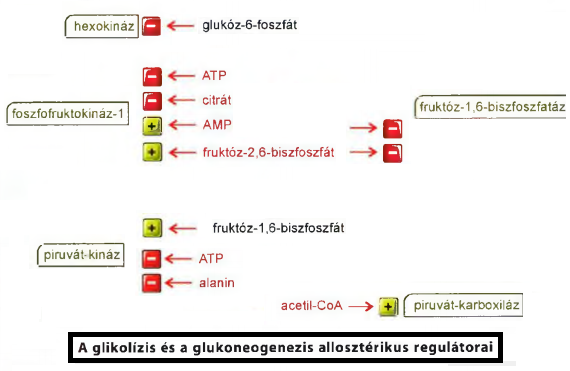
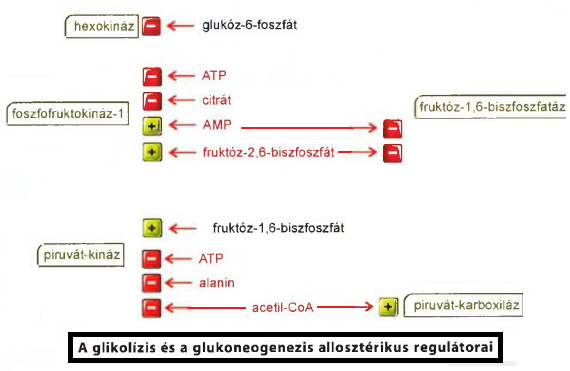
make some changes

diff --git a/BioKemia/II/biokemia_II.html b/BioKemia/II/biokemia_II.html
@@ -86,6 +86,7 @@
 	<li>citrát-kör szabályozása csak allosztérikus(= kötődik az enzimhez)? &#10140; tehát tömeghatás törvénye (koncentráció viszonyok) nem?</li><ul>
 		<li><font style="font-size:80%">szvsz</font> így fogjam fel: reverzibilis reakciók esetében számítanak a koncentráció-viszonyok, mert azok iránya<abbr title="nyilván irreverzibilisé, csak nem annyira, hogy jelentős lenne">,mértéke</abbr> befolyásolható ezáltal &#10140; azonban ez szvsz nem tekinthető szabályozásnak (de lehet hgy igen), inkább úgy fogjam fel mint következmény &#10140; ugyanis ha megnézem a citrát-kör utolsó lépésének iránya befolyásolódik pl. az alkohol-fogyasztás következményeként</li>
 		<li>ugyanis a koncentráció viszony az összes reverzibilis reakciónál felírható, így fölösleges lenne mindig őket megemlíteni!</li>
+		<li>amúgy is amiket tanlunk szabályozó lépések azok irreverzibilisek (szvsz mind, de van egy-két kivétel, ahol a koncentráció-viszony jelentős, de az attól még nemtudom sorolható-e szabályozásba) &#10140; hiszen az enzim szabályozás 3 típusa: génexpresszió, kovalens, allosztérikus</li>
 	</ul>
 	
 	<li><font style="font-size:80%"><span class="WHITE">3</span> glukokináz ott fordul elő (máj, pancreas &beta;-sejt), ahol a glukózfelvétel a vérből a szintén kis affinitású GLUT2 transzporteren keresztül történik <abbr title="no és mi a helyzet a vesével, meg enterocytákkal">!?</abbr></font></li>
@@ -103,10 +104,8 @@
 
 
 
+8.előadás: 09:20
 
-
-<span class="MISS">piruvát-kináz</span>
-<span class="MISS">glikolízis szabályozás</span>
 
 
 <!--//////////////////////////////////////-->  <div><div class="mainTitle">előadások</div>  <!--//////////////////////////////////////-->
@@ -149,9 +148,13 @@
 			</ul>
 		</ul></details>
 		<details class="kerdes 2/1"><summary>miért AMP koncentráció allosztérikus szabályozó, miért nem ADP?</summary><ul class="normal">
-			<li>hogy az ATP ne csökkenjen annyira, ezért 2ADP átalakul &#10140; 1ATP + 1AMP</li>
+			<li>hogy az ATP ne csökkenjen annyira, ezért 2ADP átalakul 1ATP + 1AMP</li>
+			<li>2ADP <div class="mirror">&#10140;</div>&#10140; 1ATP + 1AMP .............enzim: adenilát-kináz</li>
 			<li>ennek következtében ATP kevésbé csökken, AMP viszont nagy mértékben nő</li>
 			<li><font style="font-size:80%">ez májsejtekben van</font></li>
+		</ul></details>
+		<details class="kerdes 2/1"><summary>foszfoglukomutáz reakciója<abbr title="elvileg ezek képleteit is kérik, de ez nem nagy szám">&#10045;</abbr></summary><ul class="normal">
+			<img data-src="glcmtjshmn.png">
 		</ul></details>
 		<details class="kerdes 2/6"><summary>légzési lánc – számítások</summary><ul class="normal">
 		  <strong>NADH+H<sup>+</sup> és FADH<sub>2</sub> oxidációja során menni energia szabadul fel</strong>
@@ -159,7 +162,7 @@
 			<li>NADH+H<sup>+</sup> oxidálása és 1/2 O<sub>2</sub> redukálódása során 220kJ/mol energia szabadul fel</li>
 			<li>FADH<sub>2</sub> oxidálása és 1/2 O<sub>2</sub> redukálódása során 152kJ/mol energia szabadul fel</li>
 		  <hr><strong>proton kipumpálásához mennyi energia szükséges</strong>
-			<li>két dologtól függ</li><ul>
+			<li><abbr title="logikus, hiszen elektrokémiai grádiens a koncetrációt és feszültséget foglalja magába!! (képletből is kiolvasható)">két dologtól függ</abbr></li><ul>
 				<li>membránpotenciál: &Delta;Ψ<sub>M</sub> = -150mV</li>
 				<li>pH-különbség: &Delta;pH = <abbr title="előadáson mondták, hogy újabban már ennyinek tartják, TK + diában még nem ezt írják">0,5</abbr></li>
 			</ul>
@@ -168,7 +171,15 @@
 			<li>egy FADH<sub>2</sub> oxidálása során tehát 6db proton pumpálódik ki (152/22)</li>
 			<font style="font-size:80%">ezekből az levonható hogy a hatásfok igen jó, kevés energia vesz el hő formájában &#10140; a számokba azonban bele lehet kötni, mert a 220kJ/mol és 152kJ/mol standard körülmények között lett kiszámítva<abbr title="a proton kipumpálás már nem!">'</abbr>, és a valóságban nem az van (szóval van némi eltérés)</font>
 		  <hr><strong>ATP szintéziséhez mennyi energia szükséges</strong>
-			<li>ki lett számítva az elején a két redoxpotenciál értékből, hogy &Delta;G<sup>0</sup>=-220kJ/mol egy NADH / NAD<sup>+</sup> &#10140; 1/2O<sub>2</sub> / H<sub>2</sub>O végbementele során</li>
+			<li>ΔG = ΔG<sup>0</sup> + RTln([ADP]*[P<sub>i</sub>]/[ATP])</li>
+			<li>elég a fennti képletet tudnom, ezenkívül annyit:</li><ul>
+				<li>ΔG<sub>0</sub> = 30,5kJ/mol</li>
+				<li>ΔG =~ 55kJ/mol</li>
+				<li>(ADP,Pi,ATP koncentrációt nem kell tudni)</li>
+			</ul>
+		</ul></details>
+		<details class="kerdes 3/1"><summary>glikogén-foszforiláz-kináz felépítéséről tudnivaló?</summary><ul class="normal">
+			<li>több alegységből áll &#10140; a <abbr title="delta">&delta;</abbr>-alegysége a kalmodulin &#10140; ezért mehet a szabályozás Ca<sup>2+</sup>-on keresztül is végbe (izomban ez a fontos!)</li>
 		</ul></details>
 	</ul></details>
 	<details class="open"><summary class="status"><strong>1.</strong></summary><ul class="normal">
@@ -683,29 +694,57 @@
 			</ul>
 		</ul></details>
 	</ul></details>
-	
-	<br><details open class="open"><summary class="status"><strong>36.</strong></summary><ul class="normal">
-		<li>lásd még 3.tétel</li>
+	<details class="open"><summary class="status"><strong>36.</strong></summary><ul class="normal">
 		<li>lásd még TK.170o</li>
-		<details open class="kerdes 3/1"><summary><strong>A piruvát kináz szabályozása májsejtekben</strong>, a glikolizis és glukoneogenezis enzimek mennyiségének regulációja a transzkripció szintjén</summary><ul class="normal">
+		<details class="kerdes 3/4"><summary><strong>A piruvát kináz szabályozása májsejtekben</strong>, a glikolizis és glukoneogenezis enzimek mennyiségének regulációja a transzkripció szintjén</summary><ul class="normal">
+			<li>piruvát-kináznak több izoenzime van &#10140; májban az L-típusú van</li>
+			<strong>szabályozás két szinten történik</strong><ul>
+				<li>allosztérikus</li>
+				<li>kovalens(foszforiláció)</li>
+			</ul>
+			<li><span class="Important">R</span> piruvát-kináz allosztérikus szabályozása képen</li><ul>
+				<li>(fruktóz-1,6-biszfoszfát &#10140; mivel innentől megpecsételt a glikolízis útja, akkor már menjen is végig)</li>
+				<li>(alanin &#10140; ha megjelenik májban akkor glukoneogenezisre van szükség)</li>
+				<li>(acetil-CoA &#10140; zsírsavak oxidációja miatt nő a mennyisége, ami akkor megy végbe ha glukoneogenezisre van szükség, ugyanis ilyenkor a zsírsavak fedezik az energiát hozzá)</li>
+			</ul>
+			<li>kovalens(foszforiláció)</li><ul>
+				<li>glukagon hatására &#10140; cAMP &#10140; PKA</li>
+				<li>a PKA foszforilálja a piruvát-kinázt, ami által inaktív<abbr title="logikus, hiszen glukagon esetében a glikolízist gátolni kell!">'</abbr> lesz</li>
+			</ul>
+		  <hr>
+			<li>izomban (M-típusú) ezen szabályozások nincsenek!</li>
+			<img data-src="glcklzglnkngfd.png">
 		</ul></details>
-		<details open class="kerdes 3/1"><summary>A piruvát kináz szabályozása májsejtekben, <strong>a glikolizis és glukoneogenezis enzimek mennyiségének regulációja a transzkripció szintjén</strong></summary><ul class="normal">
+		<details class="kerdes 3/4"><summary>A piruvát kináz szabályozása májsejtekben, <strong>a glikolizis és glukoneogenezis enzimek mennyiségének regulációja a transzkripció szintjén</strong></summary><ul class="normal">
+			<li>az enzim működés szabályozásának 3.típusa (kovalens,allosztérikus mellett) a génexpresszió szintjén történik &#10140; ilyenkor nem a működése, hanem mennyisége fog változni</li>
+		  <hr>
+			<table><tr><th></th><th>glukagon</th><th>inzulin</th></tr>
+				<tr><th>serkenti</th>
+					<td>PEPCK & glükóz-6-foszfatáz</td>
+					<td>glukokináz & piruvát-kináz</td>
+				</tr>
+				<tr><th>gátolja</th>
+					<td>glukokináz & piruvát-kináz</td>
+					<td>PEPCK & glükóz-6-foszfatáz</td>
+				</tr>
+			</table>
+			<li>tehát glukagon serkenti a <span class="Important">szintézisét</span> a PEPCK-nak és glükóz-6-Páz-nak <abbr title="a lényeg, hogy a szintézis van serkentve/gátolva! mindig">stb.</abbr></li>
+		  <hr>
 			<li>CREB &#10140; <abbr title="transzkripciós faktor">TF</abbr>, mely DNS-hez<abbr title="CRE részéhez">'</abbr> kötődik, ha megnő a cAMP</li>
+			<li>glukagon a CREB-en keresztül fejti ki egyrészt hatását</li>
+			<li>másrészt csökkenti a SREBP (ez is TF) mennyiségét, aminek <abbr title="tehát amit glukagon gátol(glukokináz...), azt ez serkenti. illetve amit glukagon serkent(PEPCK...), azt ez gtolja">hatása ellentétes</abbr> a glukagonéval</li>
 		</ul></details>
 	</ul></details>
-
-	<br><details class="kerdes 3/4"><summary class="status"><strong>37. A glikolízis és a glukoneogenezis koordinált szabályozása.</strong></summary><ul class="normal">
-		általánosan elmondható az alábbi &#10140; a szabályozás az irreverzibilis lépéseket katalizáló enzimek szabályozásán keresztül történik
-		<li>allosztérikus</li>
-		<li>hormonális &#10140; glukagon & inzulin (nincs a képen, egyenlőre)</li>
+	<details class="kerdes 3/4"><summary class="status"><strong>37. A glikolízis és a glukoneogenezis koordinált szabályozása.</strong></summary><ul class="normal">
+		<li>általánosan elmondható az alábbi &#10140; a szabályozás az irreverzibilis lépéseket katalizáló enzimek <span class="Important">allosztérikus</span> szabályozásán keresztül történik</li>
+		<li>külön kiemelem a hormonokat(glukagon és inzulin), melyek közvetve <abbr title="szintén">'</abbr> allosztérikusan szabályoznak a fruktóz-2,6-biszfoszfáton keresztül</li>
 	  <hr>
 		<li><span class="Important">RAJZ</span> (glukokináz nincs a képen)</li>
 		<img data-src="glcklzglnkngfd.png">
 	</ul></details>
 	<details class="kerdes 3/5"><summary class="status"><strong>38. A foszfofruktokináz 1 és a fruktóz biszfoszfatáz 1 regulációja.</strong></summary><ul class="normal">
-	  <strong>szabályozások típusai</strong>
-		<li>allosztérikus &#10140; képen láthatóakat soroljam fel (ezenkívül lennt 1-2 részletesebben megemlítve)</li>
-		<li>külön megemlítem a hormonokat(glukagon és inzulin), melyek közvetve <abbr title="szintén">'</abbr> allosztérikusan szabályoznak a fruktóz-2,6-biszfoszfáton keresztül</li>
+		<li>allosztérikus szabályozás van &#10140; képen láthatóakat soroljam fel (ezenkívül lennt 1-2 részletesebben megemlítve)</li>
+		<li>külön kiemelem a hormonokat(glukagon és inzulin), melyek közvetve <abbr title="szintén">'</abbr> allosztérikusan szabályoznak a fruktóz-2,6-biszfoszfáton keresztül</li>
 	  <hr><strong><span class="Important">R</span></strong> &#10140; ATP gátolja a foszfofruktokináz-1 -et
 		<img data-src="rajz_grkfjmnjm.png">
 	  <hr><strong>a zsírsavak oxidációjából származó acetil-CoA, és abból keletkező citrát felszaporodik </strong> &#10140; glukoneogenezis igénye <abbr title="<font style="font-size:80%">annyit belekötnék, hogy acetil-CoA (és így szvsz citrát is) felszaporodhat még &#10140; citrát-kör nem működik, alkohol-fogysaztás stb. (de ezek abnormálisak)</font>">'</abbr>
@@ -731,19 +770,22 @@
 				<li>vérrel eljutva a sejtekben elindítja a &#10140; cAMP &#10140; PKA</li>
 				<li>PKA hatása &#10140; foszfofruktokináz-2-t foszforilálja &#10140; fruktóz-2,6-biszfoszfát csökken &#10140; glikolízis gátolva, glukonegenezis serkentve</li>
 			</ul></details>
-			<details open><summary>inzulin</summary><ul class="normal">
+			<hr><details open><summary>inzulin</summary><ul class="normal">
 				<li>magas vércukorszint hatására termelődik a pancreas &beta;-sejtjeiben (Langerhans-sziget)</li>
 				<li>vérrel eljutva a sejtekben elindít jelátvitelt, hatására...</li>
-				<li>foszfoprotein-foszfatáz a foszfofruktokináz-2-t defoszforilálja &#10140; fruktóz-2,6-biszfoszfát nő &#10140; glikolízis serkentve, glukonegenezis gátolva</li>
+				<li><abbr title="a foszfoprotein-foszfatáz">'</abbr> a foszfofruktokináz-2-t defoszforilálja &#10140; fruktóz-2,6-biszfoszfát nő &#10140; glikolízis serkentve, glukonegenezis gátolva</li>
 			</ul></details>
 		</ul></details>
 	</ul></details>
 	<details class="kerdes 3/6"><summary class="status"><strong>40. A glikogén szintézise (iniciáció, elongáció)</strong></summary><ul class="normal">
 	  <details><summary>iniciáció</summary><ul class="normal">
 		<li>glikogén-szintáz a lánc szintézisét nem tudja elkezdeni, működéséhez egy, már legalább nyolc glukózt tartalmazó lánc szükséges</li>
-		<li>ezt a kezdeti láncot a glikogenin építi fel, amelynek egy Tyr-OH csoportjához kötődik be az első glukóz, UDP-glukózról</li>
-		<li>mind ezt a lépést, mind a további néhány glukózbeépülést UDP-glukózról a glikogenin katalizálja</li>
-		<li>amikor kész a ~ 8 glukózból álló lánc, akkor veszi át a lánc tovább- építését a glikogén-szintáz. A glikogenin mindvégig kötve marad a glikogén egyetlen redukáló végéhe</li>
+		<li>ezt a kezdeti láncot a glikogenin(fehérje) fogja létrehozni &#10140; </li><ul>
+			<li>egy Tyr-OH csoportjához kötődik be az első glukóz, UDP-glukózról</li>
+			<li>további kb.7 glükóz kapcsolódik UDP-glukózról rá láncszerűen (előző glükózra &alpha;1,4 kötés!)</li>
+		</ul>
+		<li>amikor kész a ~8 glukózból álló lánc, akkor veszi át a lánc további építését a glikogén-szintáz</li>
+		<li>a glikogenin mindvégig kötve marad a glikogén egyetlen redukáló végéhez</li>
 	  </ul></details>
 	  <hr><details><summary>elongáció <span class="Important">R</span></summary><ul class="normal">
 		<div><span class="WHITE">1</span> glükóz-6-P &#10140; glükóz-1-P &nbsp;&nbsp;&nbsp;&nbsp;&nbsp; enzim:foszfoglukomutáz</div>
@@ -760,17 +802,21 @@
 			<div class="imp [286]"></div>
 		</ul></details>
 		<font style="font-size:80%">a glikogén foszforiláz 2db azonos alegységből épül fel, ezeknek 3 jelentős része van &#10140; aktív centrum, allosztérikus kötőhely, egy szerin-OH ahol foszforilálódik</font>
-	  <hr><details><summary>glikogén foszforiláz <u>kovalens</u> szabályozása MÁJban</summary><ul class="normal">
+	  <hr><details><summary><u>kovalens</u> szabályozása MÁJban</summary><ul class="normal">
 		<div class="imp [287]"></div>
 	  </ul></details>
-	  <hr><details><summary>glikogén foszforiláz <u>kovalens</u> szabályozása IZOMban</summary><ul class="normal">
+	  <hr><details><summary><u>kovalens</u> szabályozása IZOMban</summary><ul class="normal">
 		<li>NINCS glukagon receptor! &#10140; tehát itt NEM a vércukorszint fogja megszabni a glikogén lebontást, mint a májnál! helyette...</li>
 		<li>adrenalin kötődik &beta;-adrenerg receptorhoz &#10140; cAMP nő &#10140; folytatása már ugyanaz, mint glukagonnál</li>
 	  </ul></details>
-	  <hr><details><summary>glikogén foszforiláz <u>allosztérikus</u> szabályozása</summary><ul class="normal">
-		<li>májban a glükóz kötődik az aktív_glikogén-foszforiláz-hoz, és ezáltal képes lesz azt már defoszforilálni a foszfoprotein-foszfatáz-1 (emelkedett vércukorszint esetén nincs szükség glikogén lebontásra már!) &#10140; a glikogén-foszforiláz ún.<strong>glükózszenzor</strong> (izomban NEM!)</li>
-		<li>izomban ehelyett AMP kötődik az inaktív_glikogén-foszforiláz-hoz, és ezáltal aktiválódik (logikus, hisz ilyenkor van szükség glikogén lebontására)</li>
-		<li>a Ca<sup>2+</sup> növekedése aktiválja a glikogén-foszforiláz-kinázt &#10140; Ca<sup>2+</sup> növekedés oka:</li><ul>
+	  <hr><details><summary><u>allosztérikus</u> szabályozása</summary><ul class="normal">
+		<li>májban a <span class="WHITE">glükóz</span> <img class="mini" data-src="kszsdfhjfm.png"></li><ul>
+			<li>gátolja a glikogén lebontást &#10140; kötődik az aktív_glikogén-foszforiláz-hoz, és ezáltal képes lesz azt már defoszforilálni a foszfoprotein-foszfatáz-1, tehát inaktiválni (hiszen emelkedett vércukorszint esetén nincs szükség glikogén lebontásra már!) (ezért a glikogén-foszforiláz ún.<strong>glükózszenzor</strong>)</li>
+			<li>serkenti a glikogén-szintézist &#10140; glükóz-6-P-á alakul, ami hozzákapcsolódik a glikogén-szintázhoz, amit így más képes defoszforilálni a foszfoprotein-foszfatáz-1, tehát aktiválni</li>
+			<span class="Important">tehát a defoszforilációhoz alkalmas konformációt ez teszi lehetővé &#10140; de! a defoszforilációt végző enzim aktiválásához inzulinra van még szükség!!</span>
+		</ul>
+		<li>izomban ehelyett <span class="WHITE">AMP</span> kötődik az inaktív_glikogén-foszforiláz-hoz, és ezáltal aktiválódik (logikus, hisz ilyenkor van szükség glikogén lebontására)</li>
+		<li>glikogén-foszforiláz-kináz &delta;-alegysége <abbr title="Ca<sup>2+</sup>-o(ka)t kötő fehérje">kalmodulin</abbr>, így a <span class="WHITE">Ca<sup>2+</sup> növekedése</span> aktiválja &#10140; Ca<sup>2+</sup> növekedés oka:</li><ul>
 			<li>izomban kontrakciónál nő</li>
 			<li>májban adrenalin &alpha;1-reecptorhoz kötődése következtében nő <span class="lasd">43.tétel</span></li>
 		</ul>
@@ -785,12 +831,13 @@
 		<li><abbr title="szvsz tk.180o szövege és 179o ábrája alapján">'</abbr> a glikogén szintáz foszforilációja hasonlóan történik, mint a glikogén foszforilázé <abbr title="különbség, hogy több helyen történik, és több enzim IS foszforilálhatja &#10140; DE! a hormonok által végbemenő hatások dominálnak itt is, ugyanolyan módon (csak van kiegészítés is mellette)">'</abbr></li>
 		<li><span class="MISS">szóval ennél rizsázzak kicsit a képen láthatóról + 41.tétel</span> <img class="mini" data-src="lksjsdmah.png"></li>
 	  <hr><strong>defoszforiláció, tehát aktiválódás</strong>
-		<li>inzulin hatására &#10140; PKB aktiválódik &#10140; </li><ul>
-			<li>glikogén-szintáz-kinázt foszforilálja, így inaktiválódik</li>
-			<li>emellett a foszfoprotein-foszfatáz-1(PP1)-et is stimulálja, tovább erősítve a glikogén-szintáz stimulációját, a glikogén-foszforiláz-kináz és a glikogén-foszforiláz gátlását</li>
-		</ul>
+		<div class="imp [293]"></div>
 	  <hr><strong>allosztérikus</strong>
-		<li>glukóz-6-foszfát aktiválja</li>
+		<li>májban a glükóz <img class="mini" data-src="kszsdfhjfm.png"></li><ul>
+			<li>gátolja a glikogén lebontást &#10140; kötődik az aktív_glikogén-foszforiláz-hoz, és ezáltal képes lesz azt már defoszforilálni a foszfoprotein-foszfatáz-1, tehát inaktiválni (hiszen emelkedett vércukorszint esetén nincs szükség glikogén lebontásra már!) (ezért a glikogén-foszforiláz ún.<strong>glükózszenzor</strong>)</li>
+			<li>serkenti a glikogén-szintézist &#10140; glükóz-6-P-á alakul, ami hozzákapcsolódik a glikogén-szintázhoz, amit így más képes defoszforilálni a foszfoprotein-foszfatáz-1, tehát aktiválni</li>
+			<span class="Important">tehát a defoszforilációhoz alkalmas konformációt ez teszi lehetővé &#10140; de! a defoszforilációt végző enzim aktiválásához inzulinra van még szükség!!</span>
+		</ul>
 		<img data-src="glkgkndrnln.png">
 	</ul></details>
 	<details class="kerdes 3/5"><summary class="status"><strong>43. A glukagon és az adrenalin hatása a glikogén anyagcserére a májban</strong></summary><ul class="normal">
@@ -803,7 +850,22 @@
 		<li><font style="font-size:80%">DAG &#10140; glikogén-szintézist gátolja: UDP-glükóz – glikogén átalakulást gátolja</font></li>
 	  </ul></details>
 	</ul></details>
-	
+
+	<br><details open class="open"><summary class="status"><strong>44.</strong></summary><ul class="normal">
+		<details class="kerdes 3/?"><summary><strong>Motoros ideg stimuláció</strong> és az adrenalin hatása a glikogén anyagcserére izomban</summary><ul class="normal">
+			<li>s</li>
+		</ul></details>
+		<details class="kerdes 3/?"><summary>Motoros ideg stimuláció és az <strong>adrenalin hatása a glikogén anyagcserére izomban</strong></summary><ul class="normal">
+			<li>s</li>
+		</ul></details>
+	</ul></details>
+	<details open class="kerdes 3/?"><summary class="status"><strong>45. Az inzulin elválasztásának mechanizmusa a pancreas ß‐sejtjeiben</strong></summary><ul class="normal">
+		<li>s</li>
+	</ul></details>
+	<details open class="kerdes 3/?"><summary class="status"><strong>46. Az inzulin hatásai a glikogén szintézisére és lebontására</strong></summary><ul class="normal">
+		<div class="imp [293]"></div>
+	</ul></details>
+
 	<br><details class="kerdes 3/6"><summary class="status"><strong>47. A glükóz direkt oxidációjának oxidatív szakasza</strong></summary><ul class="normal">
 		<li>első lépés (glükóz-6-P-dehidrogenáz) a 'legjelentősebb'</li><ul>
 			<li>ez a sebességmeghatározó</li>
@@ -928,28 +990,26 @@
 			<li>tehát a 'nettó reakció' <img class="mini" data-src="ntrkcmtmrc.png"></li>
 		</ul>
 		<li>egy NADH+H<sup>+</sup> oxidációja során a felszabaduló energia ennyi <abbr title="lehetne max">'</abbr> &#10140; &Delta;G<sup>0</sup> = 220kJ/mol <abbr title="FADH2-nél 152kJ/mol">'</abbr> <abbr title="ezek persze standard kkörülményekre értett adatok (de inkább nem bonyolítsam, úgyse értem)">'</abbr> <img class="mini" data-src="frdtrmx.png"> <abbr title="ennek kiszámítása ha érdekel, akkor 2017.09.14 szeminárium 1óra tájékán meghalgathatom">'</abbr></li>
-		<li>a felszabaduló energia proton kipumpálására fordítódik &#10140; majd ezek visszaáramlása során felszabaduló energia fog ATP-szintézisre fordítódni az <strong>oxidatív_foszforiláció</strong> <abbr title="mely a terminális oxidációhoz kapcsolt">'</abbr> során ➜ melyet az ATP-szintáz végez</li>
+		<li>a felszabaduló energia proton kipumpálására fordítódik az intermembrán térbe </li>
+		<li>végül a protonok visszaáramlása során felszabaduló energia fog ATP-szintézisre fordítódni az <strong>oxidatív_foszforiláció</strong> <abbr title="mely a terminális oxidációhoz kapcsolt">'</abbr> során ➜ melyet az ATP-szintáz végez</li>
 	  <hr>
-		<li>ahogy már említve volt, a redox-reakciókat véghez vívő fehérje-komplexek a mitokondrium <abbr title="hisz a mitokondriumnak kettős membránja van (és ugye mindkettő kétrétegű)">belső</abbr> membránjában helyezkednek el &#10140; 4db ilyen fehérje-komplex van</li>
-		<li>ezek alkotják az ún. légzési-elektrontranszport-láncot</li>
-		<li>ezek 'lényegében' két dolgot csinálnak <abbr title="a redox-reakciók ,,mellett''">'</abbr> &#10140; elektront-szállítanak, és ezenkívül protont-pumpálnak ki az intermembrán térbe</li>
-		<li>az intermembrán térbe felgyülemlő protonokat fogja az ATP-szintáz visszaengedni, és közben az energiát ATP-szintézisre fordítja</li>
-	  <hr>
-		<details><summary>működéssel kapcsolatos általános tudnivalók</summary><ul class="normal">
-			<li>a komplex-I,III és IV transzmembrán &#10140; ezek pumpálnak ki protonokat</li>
-			<li>a komplex-I,II,III felépítésében vesz részt Fe-S–komplex(ek) &#10140; ezek az elektrontranszportban játszanak szerepet</li>
-			<li><abbr title="koenzim-Q = UQ = ubikinon">CoQ</abbr> és citokróm-c, mely szállítja az elektronokat a fehérjekomplexek között &#10140; ezek szabadabban mozoghatnak <abbr title="a citrokróm-c az intermembrán térben van (CoQ a belső-membránban)">'</abbr></li>
-		</ul></details>
-	  <hr>
-		<details><summary>komplexek működése röviden</summary><ul class="normal">
-			<li>komplex I &#10140; 4H<sup>+</sup>-t kipumpál</li>
-			<li>komplex II &#10140; nem pumpál ki protont</li>
-			<li>komplex III &#10140; 4H<sup>+</sup>-t kipumpál</li>
-			<li>komplex IV &#10140; 2H<sup>+</sup>-t kipumpál, 1/2 O<sub>2</sub>-t redukál vízzé (tehát 4protont használ fel mitokondrium felől)</li>
-		  <hr>
+		<li>ahogy már említve volt, a redox-reakciókat véghez vívő fehérje-komplexek a mitokondrium <abbr title="hisz a mitokondriumnak kettős membránja van (és ugye mindkettő kétrétegű)">belső</abbr> membránjában helyezkednek el &#10140; 4db ilyen fehérje-komplex van</li><ul>
 			<li>ha FADH<sub>2</sub> jön, akkor az a II-III-IV úton megy végig &#10140; 6db proton pumpálódik ki</li>
 			<li>ha NADH+H<sup>+</sup> jön, akkor az a I-III-IV úton megy végig &#10140; 10db proton pumpálódk ki</li>
-		</ul></details>
+		</ul>
+		<li>ezen komplexek 'lényegében' két dolgot csinálnak <abbr title="a redox-reakciók ,,mellett''">'</abbr> &#10140; , és ezenkívül </li><ul>
+			<li>elektront-szállítanak</li>
+			<li>protont-pumpálnak ki az intermembrán térbe &#10140; a komplex-I,III és IV (ezek transzmembránok)</li><ul>
+				<li>komplex I &#10140; 4H<sup>+</sup>-t kipumpál</li>
+				<li>komplex II &#10140; nem pumpál ki protont</li>
+				<li>komplex III &#10140; 4H<sup>+</sup>-t kipumpál</li>
+				<li>komplex IV &#10140; 2H<sup>+</sup>-t kipumpál, 1/2 O<sub>2</sub>-t redukál vízzé (tehát 4protont használ fel mitokondrium felől)</li>
+			</ul>
+		</ul>
+		<li>elektrontranszportban résztvevő fontosabb 'komponensek'</li><ul>
+			<li>Fe-S–komplexek <font style="font-size:80%">(ezek a komplex-I,II,III-ban találhatók)</font></li>
+			<li><abbr title="koenzim-Q = UQ = ubikinon">CoQ</abbr> és citokróm-c &#10140; szállítják az elektronokat a fehérjekomplexek között <font style="font-size:80%">(a citrokróm-c az intermembrán térben van, CoQ a belső-membránban)</font></li>
+		</ul>
 	</ul></details>
 	<details class="open"><summary class="status"><strong>58.</strong></summary><ul class="normal">
 		<details class="kerdes 3/5"><summary><strong>Az ATP‐szintáz működése,</strong> az akceptorkontroll</summary><ul class="normal">
@@ -962,7 +1022,7 @@
 	</ul></details>
 	<details class="kerdes 3/8"><summary class="status"><strong>59. A P/O hányados definíciója és értékének értelmezése a kemiozmotikus elmélet szerint.</strong></summary><ul class="normal">
 	  <strong>bevezetés</strong>
-		<li>egy proton kipumpálása kb. 20kJ/mol energiába kerül <abbr title="kiszámítása ha neadjisten érdekel: 2017.09.14 szeminárium 1óra 5perc tájékán">'</abbr> &#10140; egy NADH oxidáció során 10db proton pumpálódik ki, mígy egy FADH<sub>2</sub> oxidációja során <abbr title="valójában 22kJ/mol, és így 6,9 jönne ki">6db</abbr></li>
+		<li>egy proton kipumpálása kb.22kJ/mol energiába kerül &#10140; egy NADH oxidáció során 10db proton pumpálódik ki, mígy egy FADH<sub>2</sub> oxidációja során 6db</li>
 		<li>egy ATP keletkezése ADP + P<sub>i</sub>-ből <abbr title="tehát a koncentrációk nem standard, hanem a mitokondriumban lévők"><u>valós</u></abbr> körülmények között 55kJ/mol</li>
 		<font style="font-size:80%"><u>standard</u> körülmények között lenne 30,5kJ/mol</font>
 		<li>tehát egy ATP keletkezéséhez 3db proton kipumpálása kell, azonban...</li>
@@ -1467,15 +1527,38 @@
 		<li>glukagon hatására &#10140; cAMP nő &#10140; PKA aktiválódik, így...</li><ul>
 			<li>foszforilálja a glikogén-foszforiláz-kináz fehérjét, és így aktiválja &#10140; ez foszforilálja az inaktív_glikogén-foszforilázt és így aktiválja</li>
 			<li>foszforilálja a foszfoprotein-foszfatáz-1-inhibitort, és így aktiválja &#10140; ez gátolja a foszfoprotein-foszfatáz-1(PP1) működését, ami így nem tudja defoszforilálni a glikogén-foszforilázt</li>
+			utóbbival megakadályozza még azt is, hogy inzulin hatására a foszfoprotein-foszfatáz-1 aktiválódjon, és defoszforilálja a glikogén_foszforilázt (inaktiválja)
 		</ul>
 		<li>adrenalin kötődik &beta;-adrenerg receptorhoz &#10140; cAMP nő &#10140; folytatása már ugyanaz, mint glukagonnál</li>
 		<img data-src="glkgkndrnln.png">
+	</ul></details>
+	<details class="{293} kerdes 3/3"><summary>inzulin hatása májban (kovalens módosítások)</summary><ul class="normal">
+		<img style="max-width:20%" data-src="glkgkndrnln.png">
+		inzulin hatásai:
+		<li>PKB aktiválja &#10140; glikogén-szintáz-kinázt foszforilálja, így inaktiválódik &#10140; glikogén-szintáz foszforilációját gátolja</li>
+		<li>aktiválja a defoszforilációt végző foszfoprotein-foszfatáz-1 enzimet</li><ul>
+			<li>defoszforilálja a glikogén-szintázt &#10140; aktiválja &#10140; glikogén szintézis serkentve</li>
+			<li>defoszforilálja a glikogén-foszforilázt &#10140; inaktiválja &#10140; glikogén lebontás gátolva</li>
+		</ul>
 	</ul></details>
 	<details class="kerdes 3/1"><summary>mikroszóma mi</summary><ul class="normal">
 		<li>sER &#10140; <span class="lasd">jelenőségét lásd majd drogok metabolizmusa</span></li>
 	</ul></details>
 	<details class="kerdes 3/j"><summary>szintáz vs szintetáz</summary><ul class="normal">
 		<li>szintetáz, amikor ATP(GTP)-t használ reakció során &#10140; lásd: citrát-kör szukcinát-dehidrgenáz; alkohol oxidáció acetil-CoA-szintetáz</li>
+	</ul></details>
+	<details class="kerdes 2/1"><summary>glikogén hol tárolódik &#10140; nagyobb mennyiségben? nagyobb koncentráióban?</summary><ul class="normal">
+		<li>izom (mennyiség)</li>
+		<li>máj (koncentráció)</li>
+	</ul></details>
+	<details class="kerdes 3/j"><summary>glukagon hatása</summary><ul class="normal">
+		értelemszerűen a májban (izomban nem!)
+		<li>glikogén lebontás &#10140; glükóz lesz belőle</li>
+		<li>trigliceridek lebontása</li><ul>
+			<li>glicerin lebontás &#10140; glükóz lesz belőle</li>
+			<li>zsírsav lebontás &#10140; energiát fedezi glükoneogenezishez (glükóz nem lehet belőle!)</li>
+		</ul>
+		<li>glükoneogenezis</li>
 	</ul></details>
 <!----></details>
 

diff --git a/expqs.html b/expqs.html
@@ -44,9 +44,9 @@
 	</ul></details>
 	
 	<details class="{219} kerdes 3/3"><summary>acetil-CoA</summary><ul class="normal">
-		<li>az acetil-CoA <font style="font-size:80%">allosztérikusan</font> aktiválja <u>piruvát-karboxiláz</u>t</li>
-		<li>az acetil-CoA <font style="font-size:80%">allosztérikusan</font> gátolja <u>piruvát-dehidrogenáz</u>t</li>
-	  <hr><u>magyarázata:</u> <abbr title="ennek logikájáról szó volt: 09.26ea és 09.28.sz és 09.29ea">'</abbr>
+		<li><font style="font-size:80%">allosztérikusan</font> aktiválja <u>piruvát-karboxiláz</u>t</li>
+		<li><font style="font-size:80%">allosztérikusan</font> gátolja <u>piruvát-dehidrogenáz</u>t, <u>piruvát-kináz</u>t</li>
+	  <hr><u>magyarázata:</u> <abbr title="ennek logikájáról szó volt: 09.26ea és 09.28.sz és 09.29ea 10.06ea">'</abbr>
 		<li>egyrészt (citrát-ciklus szemszögéből nézve) &#10140; a citrát-ciklushoz kell acetil-CoA és oxálacetát &#10140; ha sok acetil-CoA van, akkor többre nincs szükség, ellenben oxálacetátra szükség van</li>
 		<li>másrészt (glükoneogenezis szemszögéből nézve) &#10140; a zsírsavak oxidációja <abbr title="májban">'</abbr> során acetil-CoA keletkezik &#10140; glükoneogenezis esetében pedig a szírsavak oxidációja lesz az energiaforrás glükoneogenezishez &#10140; tehát ha van elég acetil-CoA, akkor van elég energia glükoneogenezishez</li>
 		<img data-src="kplt_prvtxlctgvfstzg.png">
